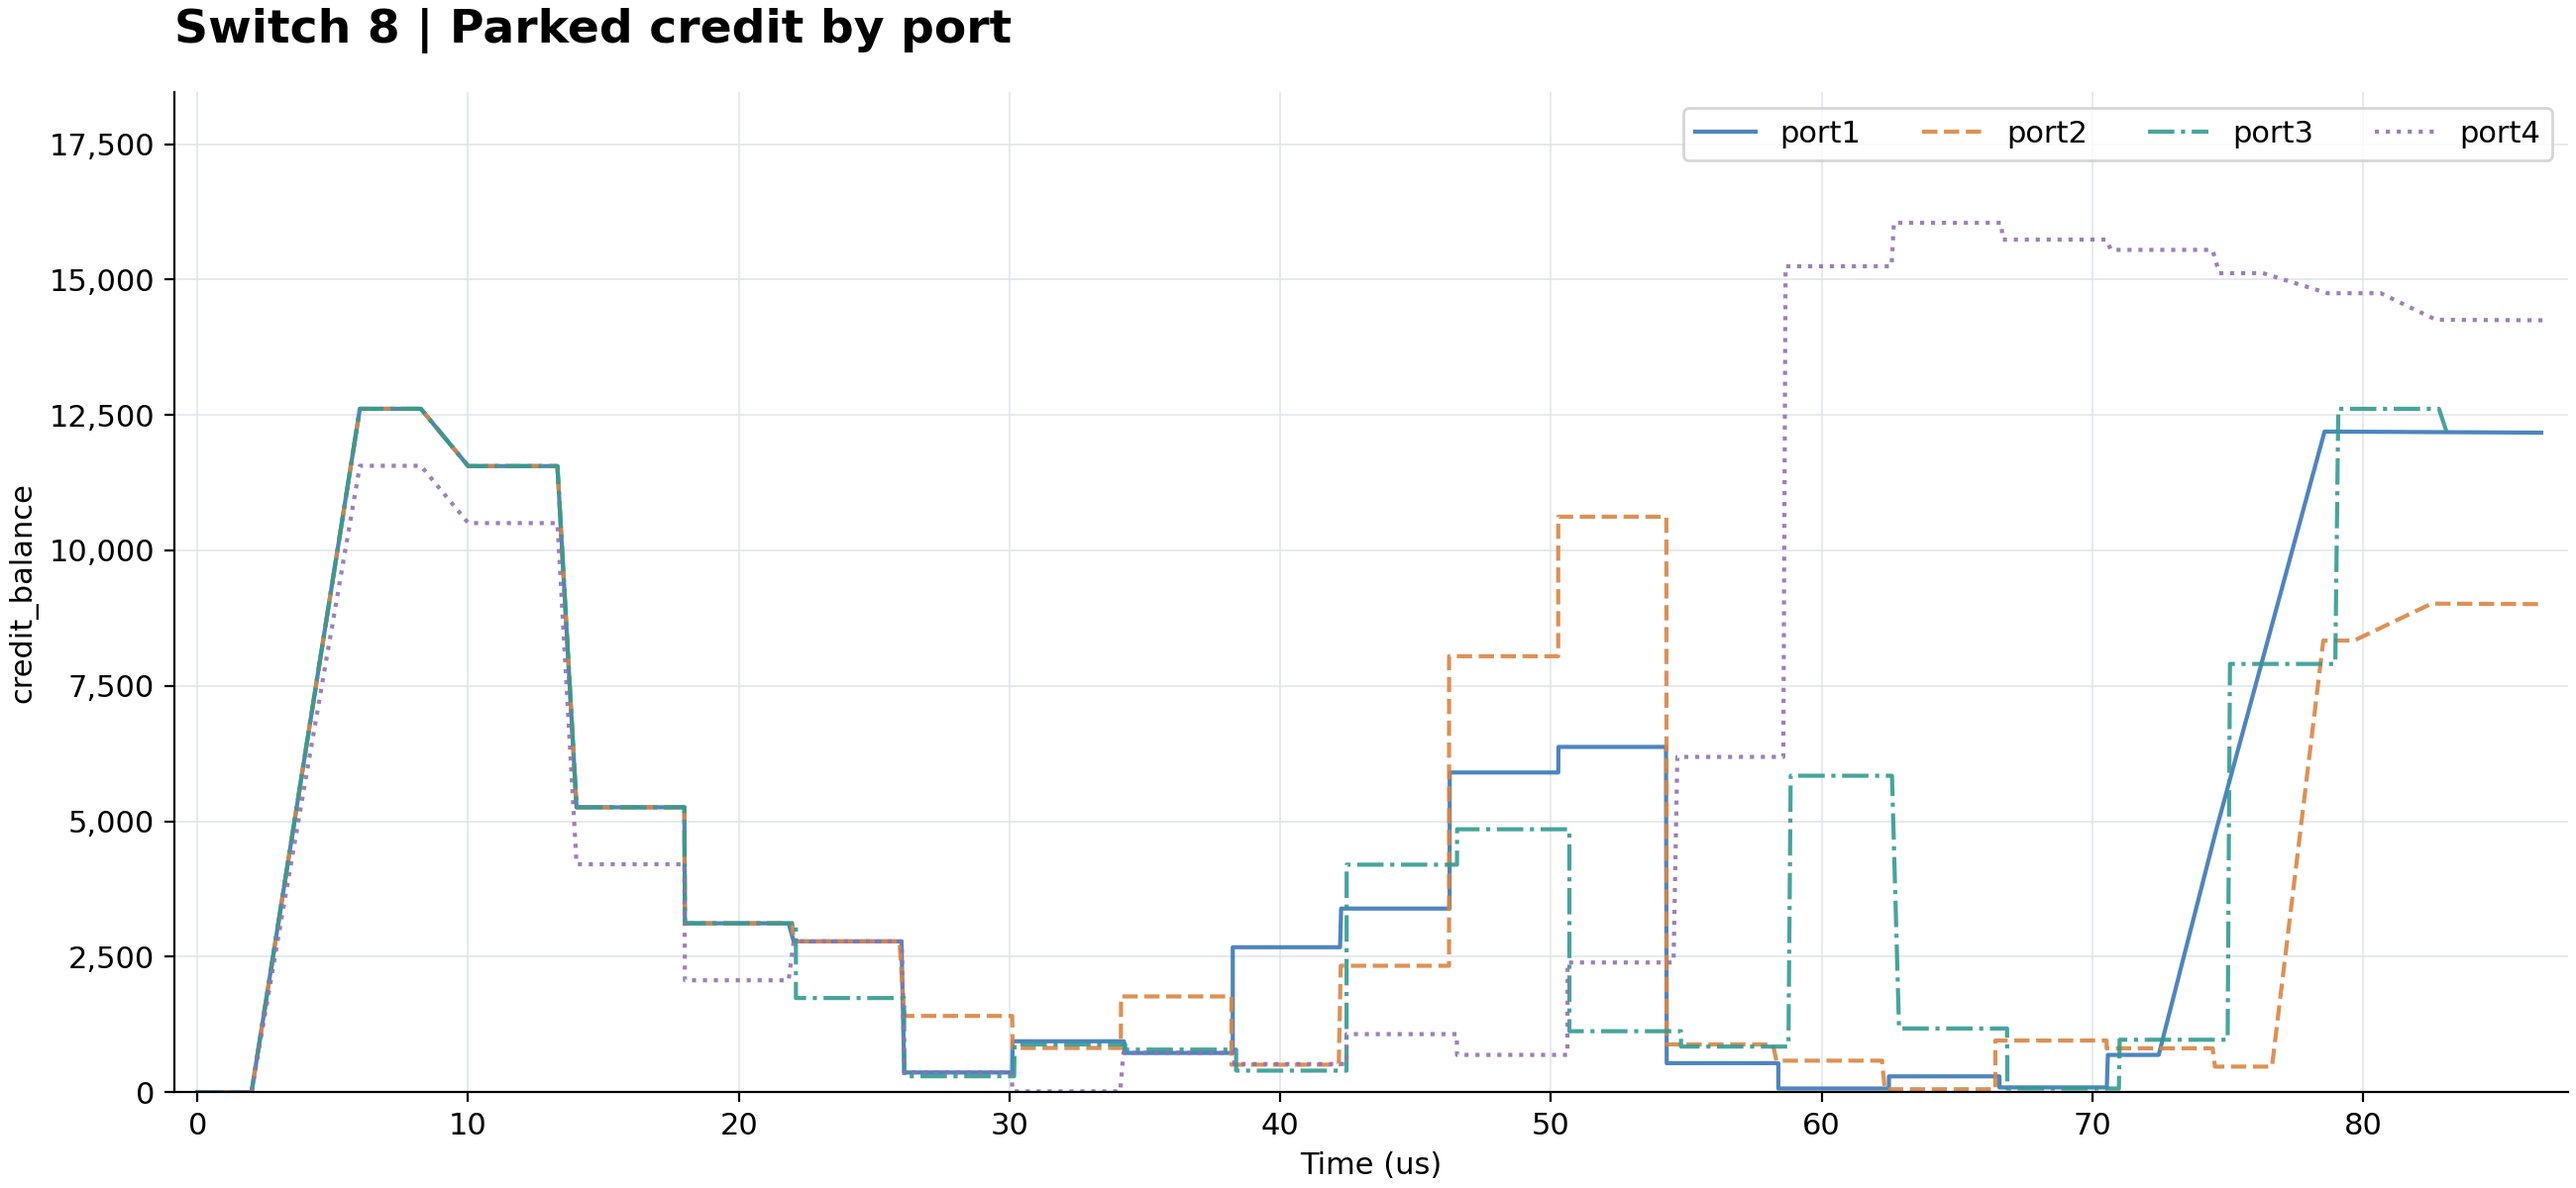
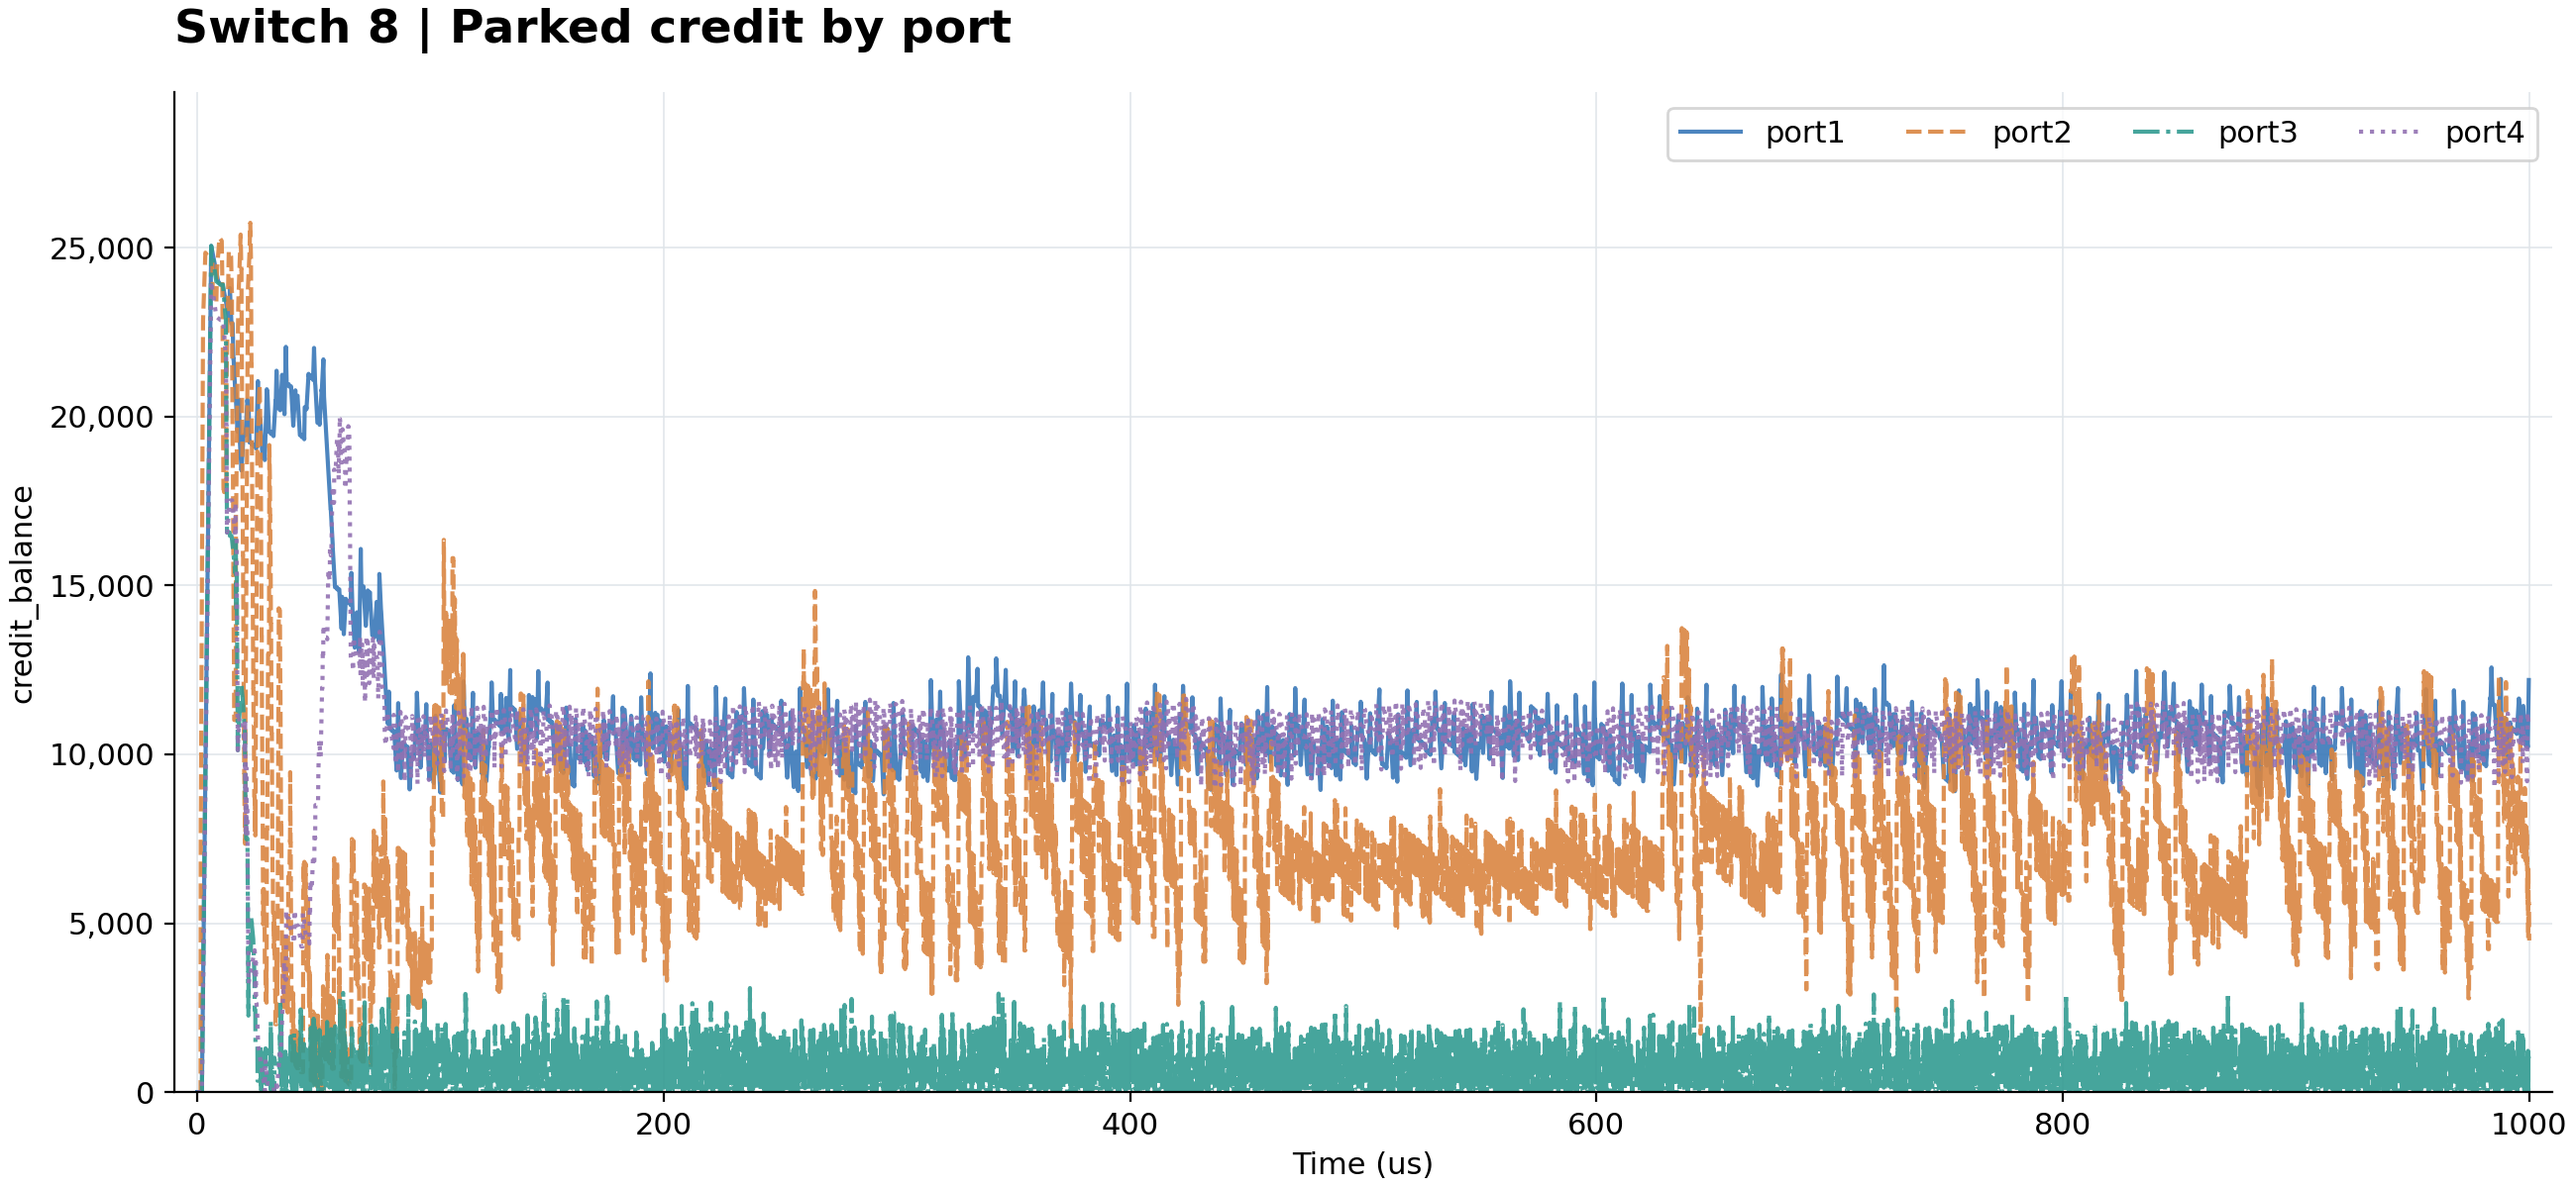
finish first step without oversubscription

diff --git a/ns-3/simulator/ns-3-buffer-oversubscription/examples/SharedCredit-FC/2-star-topo/flow-throughput.py b/ns-3/simulator/ns-3-buffer-oversubscription/examples/SharedCredit-FC/2-star-topo/flow-throughput.py
@@ -71,44 +71,14 @@ def plot_flowthroughput(
             flow_df["throughput_Gbps"],
             linewidth=2,
             color=COLORS[idx],
-            label=f"flow {idx + 1}"   # ✅ 统一命名
+            label=f"flow {fid}"   # ✅ 统一命名
         )
 
     # ================= 坐标与风格 =================
     plt.xlabel("Time (μs)")
     plt.ylabel("Throughput (Gbps)")
-    plt.ylim(bottom=0)
+    plt.ylim(0, 100)
     plt.xlim(0, 500)
-        # ===== 添加水平参考线 =====
-    for y in [10, 70]:
-        plt.axhline(
-            y=y,
-            color='black',
-            linestyle='--',
-            linewidth=1
-        )
-
-    # ===== 添加文本标注 =====
-    plt.text(
-        x=250,           # 横向中间位置（时间轴是 0~500 us）
-        y=10 + 1,        # 10Gbps 虚线稍上方
-        s="10 Gbps",
-        color='black',
-        fontsize=14,
-        ha='center',     # 水平居中
-        va='bottom'      # 文字在虚线下方
-    )
-
-    plt.text(
-        x=250,           # 横向中间位置
-        y=70 - 5,        # 70Gbps 虚线稍下方
-        s="70 Gbps",
-        color='black',
-        fontsize=14,
-        ha='center',     # 水平居中
-        va='top'         # 文字在虚线上方
-    )
-
 
     plt.grid(True, linestyle="--", alpha=0.6)
     
@@ -132,18 +102,37 @@ def plot_flowthroughput(
 # ================================
 # 3. 主流程
 # ================================
-file_path = os.path.join(REPO_ROOT, "ns-3/simulator/result/data/2-star-topo/flowthroughput.txt")
-
-flow_ids = [10000]
-
-save_path = os.path.join(save_dir, "flow-throughput.png")
-
-plot_flowthroughput(
-    file_path=file_path,
-    save_path=save_path,
-    target_sid=4,
-    target_rid=8,
-    flow_ids=flow_ids
+# ================================
+# 3. 主流程：分别绘制四个方向
+# ================================
+file_path = (
+    "/home/pnic/bm/nearly-lossless-BM/ns-3/simulator/"
+    "result/data/2-star-topo/flowthroughput.txt"
 )
 
-print("\n✅ Throughput draw finish")
+if not os.path.isfile(file_path):
+    raise FileNotFoundError(f"找不到吞吐量数据文件：{file_path}")
+
+# (源侧交换机, 中心交换机, flow_id, 方向名称)
+tasks = [
+    (4, 8, 10000, "0-to-1"),
+    (5, 8, 10001, "1-to-2"),
+    (6, 8, 10002, "2-to-3"),
+    (7, 8, 10003, "3-to-0"),
+]
+
+for sid, rid, fid, direction in tasks:
+    save_path = os.path.join(
+        save_dir,
+        f"flow-throughput-{direction}-{fid}.png"
+    )
+
+    plot_flowthroughput(
+        file_path=file_path,
+        save_path=save_path,
+        target_sid=sid,
+        target_rid=rid,
+        flow_ids=[fid],
+    )
+
+print("\nThroughput draw finish")

diff --git a/ns-3/simulator/ns-3-buffer-oversubscription/examples/SharedCredit-FC/2-star-topo/2-star-topo.cc b/ns-3/simulator/ns-3-buffer-oversubscription/examples/SharedCredit-FC/2-star-topo/2-star-topo.cc
@@ -100,8 +100,10 @@ float qmin = 3;
 float qmax = 6;
 
 // 示例值，按实验需求配置。
-uint32_t credit_grant_bytes = 1052;
+uint32_t credit_grant_bytes = 1048;
 uint64_t credit_grant_interval_ns = credit_grant_bytes * 8 / 100 / 1.2;
+
+uint64_t target_credit_update_interval_ns = 25000; // 后续更新间隔：10 us
 
 unordered_map<uint64_t, uint32_t> rate2kmax, rate2kmin;
 unordered_map<uint64_t, double> rate2pmax;
@@ -1811,6 +1813,9 @@ int main(int argc, char *argv[])
 		sw->StartCreditDistribution(
 			credit_grant_bytes,
 			NanoSeconds(credit_grant_interval_ns));
+		//触发周期性更新target_credit
+		sw->StartTargetCreditUpdate(
+				NanoSeconds(target_credit_update_interval_ns));
 	}
 	for (uint32_t i = 0; i < n.GetN(); ++i)
 	{
